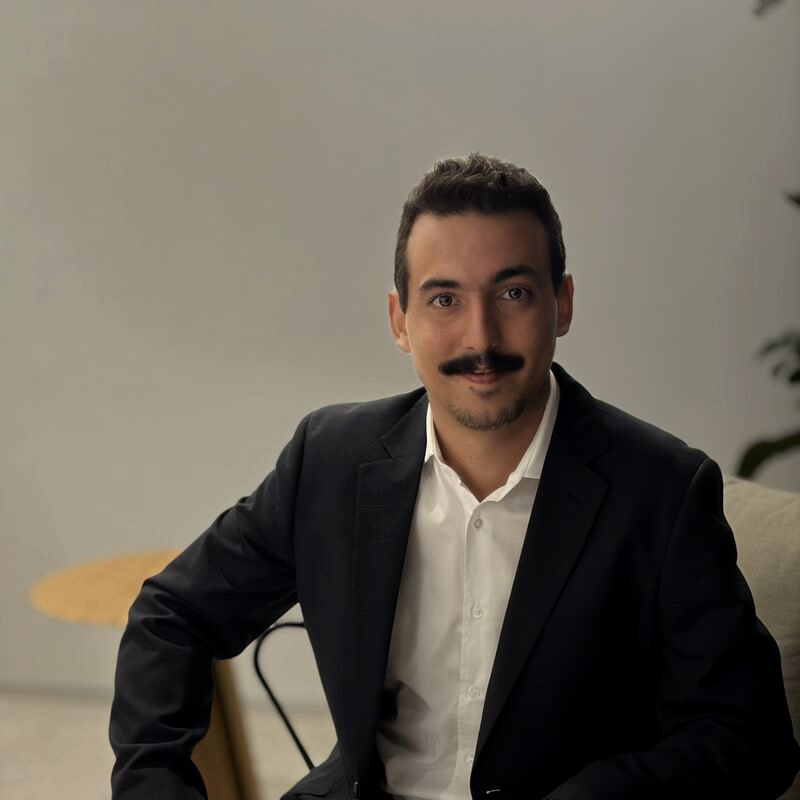
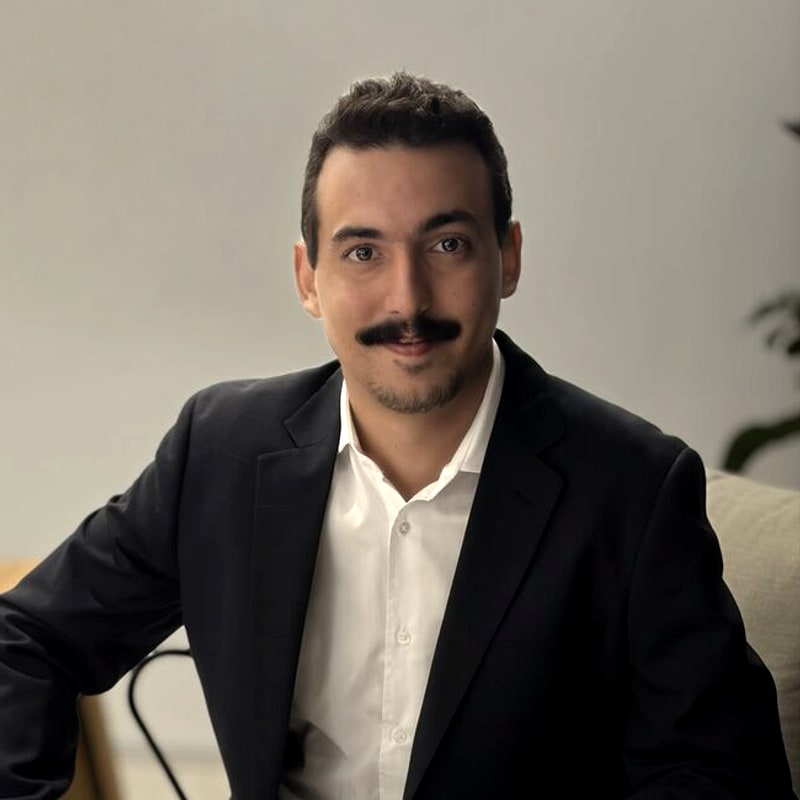
Horizontal process timeline on desktop, fix Diogo's photo crop and exposure
- Process timeline: horizontal on desktop (nodes in a row, rail filling
  left to right) instead of the vertical list, since it no longer sits
  beside a sticky heading column and has room to spread out. Mobile stays
  vertical. Both orientations now share one scroll-linked progress value
  (the section's own scroll position) instead of a separate
  IntersectionObserver, which also fixes the rail's horizontal inset
  landing exactly on the first and last node's centers regardless of step
  count.
- Diogo's photo: re-cropped tighter (much less empty headroom) and
  brightened/contrast-boosted to match the other three team photos, which
  were shot with punchier, more even lighting than this one's dim source.

Claude-Session: https://claude.ai/code/session_01W8ngrfGQ3iCKxaKq2fmVn3

diff --git a/src/components/sections/ProcessSteps.tsx b/src/components/sections/ProcessSteps.tsx
@@ -1,19 +1,20 @@
 "use client";
 
-import { useEffect, useRef, useState } from "react";
-import { motion, useReducedMotion, useScroll, useTransform } from "framer-motion";
+import { useRef, useState } from "react";
+import { motion, useMotionValueEvent, useReducedMotion, useScroll } from "framer-motion";
 import { Reveal } from "@/components/ui/Reveal";
 import { noOrphan } from "@/lib/text";
 
 type Step = { readonly title: string; readonly description: string };
 
-// Trilho vertical que preenche conforme a rolagem cruza a lista: em vez de
-// só divisórias horizontais entre etapas, agora dá pra ver de relance
-// quantas etapas existem e o quanto falta, como uma barra de progresso do
-// próprio processo.
+// Trilho vertical no mobile/tablet, horizontal a partir do desktop — a
+// mesma posição de rolagem decide o preenchimento do trilho e qual etapa
+// está "ativa" nas duas orientações, então não precisa de um mecanismo
+// separado por layout. Os nós ficam centralizados em colunas de largura
+// igual (sem gap, com padding em cada item) pra régua bater exatamente no
+// centro do primeiro ao último nó via um simples inset em porcentagem.
 export function ProcessSteps({ steps }: { steps: readonly Step[] }) {
   const [active, setActive] = useState(0);
-  const itemsRef = useRef<Array<HTMLLIElement | null>>([]);
   const railRef = useRef<HTMLDivElement>(null);
   const reduced = useReducedMotion();
 
@@ -21,33 +22,13 @@ export function ProcessSteps({ steps }: { steps: readonly Step[] }) {
     target: railRef,
     offset: ["start center", "end center"],
   });
-  const fillScale = useTransform(scrollYProgress, [0, 1], [0, 1]);
 
-  useEffect(() => {
-    if (!("IntersectionObserver" in window)) return;
+  useMotionValueEvent(scrollYProgress, "change", (v) => {
+    const index = Math.min(steps.length - 1, Math.max(0, Math.floor(v * steps.length)));
+    setActive(index);
+  });
 
-    // Janela de ~10% no meio da tela: o item que estiver cruzando ali vira o
-    // ativo, dando movimento à lista conforme a pessoa rola. Guarda todos os
-    // índices cruzando a faixa num Set e usa o menor (o mais alto na tela):
-    // ao montar, o observer dispara um retorno inicial pra cada item de uma
-    // vez, e sem isso o último a entrar no forEach vencia, não o certo.
-    const visiveis = new Set<number>();
-    const io = new IntersectionObserver(
-      (entries) => {
-        for (const entry of entries) {
-          const index = itemsRef.current.indexOf(entry.target as HTMLLIElement);
-          if (index === -1) continue;
-          if (entry.isIntersecting) visiveis.add(index);
-          else visiveis.delete(index);
-        }
-        if (visiveis.size > 0) setActive(Math.min(...visiveis));
-      },
-      { rootMargin: "-45% 0px -45% 0px" },
-    );
-
-    itemsRef.current.forEach((el) => el && io.observe(el));
-    return () => io.disconnect();
-  }, [steps.length]);
+  const insetPercent = 100 / (steps.length * 2);
 
   return (
     <div>
@@ -61,24 +42,39 @@ export function ProcessSteps({ steps }: { steps: readonly Step[] }) {
       </div>
 
       <div ref={railRef} className="relative">
-        <span aria-hidden="true" className="absolute top-5 bottom-5 left-5 w-px -translate-x-1/2" style={{ background: "var(--line)" }} />
+        <span
+          aria-hidden="true"
+          className="lg:hidden absolute top-5 bottom-5 left-5 w-px -translate-x-1/2"
+          style={{ background: "var(--line)" }}
+        />
         <motion.span
           aria-hidden="true"
-          className="absolute top-5 bottom-5 left-5 w-px -translate-x-1/2 origin-top"
-          style={{ background: "var(--ink)", scaleY: reduced ? 1 : fillScale }}
+          className="lg:hidden absolute top-5 bottom-5 left-5 w-px -translate-x-1/2 origin-top"
+          style={{ background: "var(--ink)", scaleY: reduced ? 1 : scrollYProgress }}
         />
 
-        <ol className="relative flex flex-col gap-10">
+        <span
+          aria-hidden="true"
+          className="hidden lg:block absolute top-5 h-px -translate-y-1/2"
+          style={{ left: `${insetPercent}%`, right: `${insetPercent}%`, background: "var(--line)" }}
+        />
+        <motion.span
+          aria-hidden="true"
+          className="hidden lg:block absolute top-5 h-px -translate-y-1/2 origin-left"
+          style={{
+            left: `${insetPercent}%`,
+            right: `${insetPercent}%`,
+            background: "var(--ink)",
+            scaleX: reduced ? 1 : scrollYProgress,
+          }}
+        />
+
+        <ol className="relative flex flex-col gap-10 lg:flex-row lg:gap-0">
           {steps.map((step, i) => {
             const isActive = active === i;
             return (
-              <Reveal key={step.title} delay={i * 0.07}>
-                <li
-                  ref={(el) => {
-                    itemsRef.current[i] = el;
-                  }}
-                  className="relative flex gap-5"
-                >
+              <Reveal key={step.title} delay={i * 0.07} className="lg:flex-1">
+                <li className="relative flex gap-5 lg:flex-col lg:items-center lg:gap-4 lg:px-3 lg:text-center">
                   <span
                     className="relative z-10 flex h-10 w-10 shrink-0 items-center justify-center rounded-full border font-mono text-sm font-semibold transition-colors duration-300"
                     style={{
@@ -89,7 +85,7 @@ export function ProcessSteps({ steps }: { steps: readonly Step[] }) {
                   >
                     0{i + 1}
                   </span>
-                  <div className="pt-1.5">
+                  <div className="pt-1.5 lg:pt-0">
                     <h3
                       className="font-semibold text-base transition-colors duration-300"
                       style={{ color: isActive ? "var(--ink)" : "var(--muted)" }}

diff --git a/src/components/sections/Process.tsx b/src/components/sections/Process.tsx
@@ -7,26 +7,27 @@ export function Process({ dict }: { dict: Dictionary }) {
   return (
     <section id="process" className="section-pad" style={{ background: "var(--paper)" }}>
       <div className="container-level">
-        {/* Sem imagem: a coluna da esquerda fica fixa (sticky) enquanto a
-            timeline da direita rola, no lugar de uma foto estática. */}
-        <div className="grid lg:grid-cols-[1fr_1.2fr] gap-12 lg:gap-16 items-start">
-          <div className="lg:sticky lg:top-28">
-            <Reveal>
-              <p
-                className="text-xs sm:text-sm font-semibold tracking-[0.14em] uppercase mb-5"
-                style={{ color: "var(--ink)" }}
-              >
-                {dict.process.eyebrow}
-              </p>
-              <h2 className="type-display text-3xl sm:text-4xl lg:text-5xl" style={{ color: "var(--ink)" }}>
-                {noOrphan(dict.process.title)}
-              </h2>
-              <p className="mt-6 text-base sm:text-lg leading-relaxed max-w-md" style={{ color: "var(--muted)" }}>
-                {dict.process.intro}
-              </p>
-            </Reveal>
-          </div>
+        {/* Sem imagem: no desktop a timeline vira horizontal e precisa da
+            largura toda, então o título fica em cima, não numa coluna fixa
+            ao lado. */}
+        <div className="max-w-2xl">
+          <Reveal>
+            <p
+              className="text-xs sm:text-sm font-semibold tracking-[0.14em] uppercase mb-5"
+              style={{ color: "var(--ink)" }}
+            >
+              {dict.process.eyebrow}
+            </p>
+            <h2 className="type-display text-3xl sm:text-4xl lg:text-5xl" style={{ color: "var(--ink)" }}>
+              {noOrphan(dict.process.title)}
+            </h2>
+            <p className="mt-6 text-base sm:text-lg leading-relaxed max-w-md" style={{ color: "var(--muted)" }}>
+              {dict.process.intro}
+            </p>
+          </Reveal>
+        </div>
 
+        <div className="mt-14 lg:mt-16">
           <ProcessSteps steps={dict.process.steps} />
         </div>
       </div>
